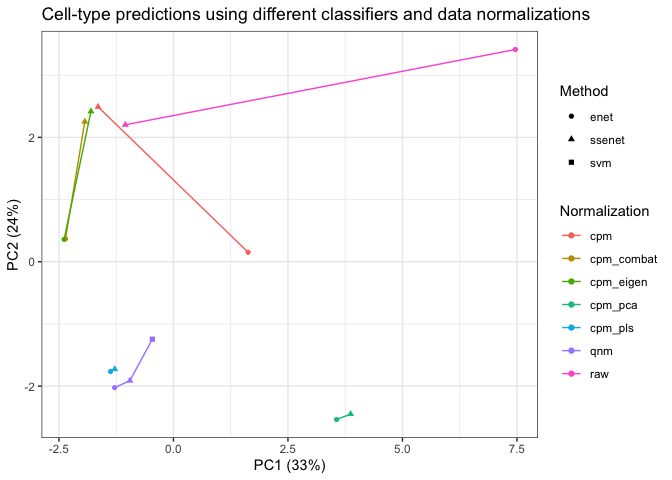
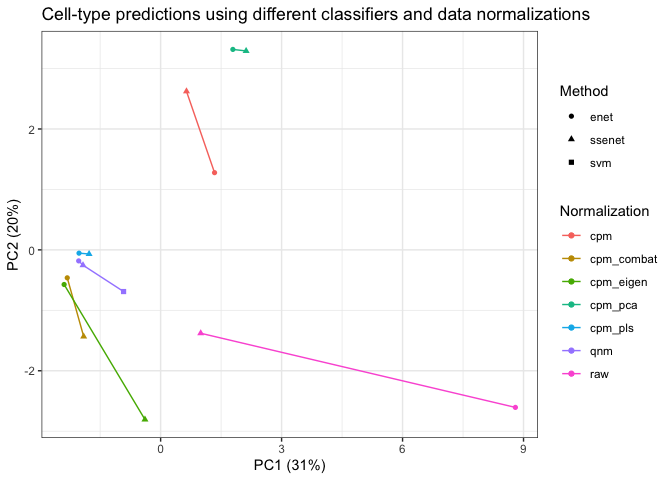
update README

diff --git a/README.md b/README.md
@@ -75,7 +75,7 @@ Questions for the BIRSBiointegration workshop:
 # set constants
 M = 2; iter = 2;
 ncores = iter;
-alpha = 0;
+alpha = 1;
 lambda = NULL;
 lambda_nfolds = 3;
 family = "multinomial";
@@ -117,8 +117,6 @@ qnmLabels$scrnaseq$V1 <- droplevels(qnmLabels$scrnaseq$V1)
 
 Compare cell-type label predictions using different methods and data normalizations
 -----------------------------------------------------------------------------------
-
-* see details of [data normalizations](https://github.com/singha53/ssenet/blob/test/inst/extdata/data_compilation.md)
 
 ``` r
 data_norms <- names(cortex)
